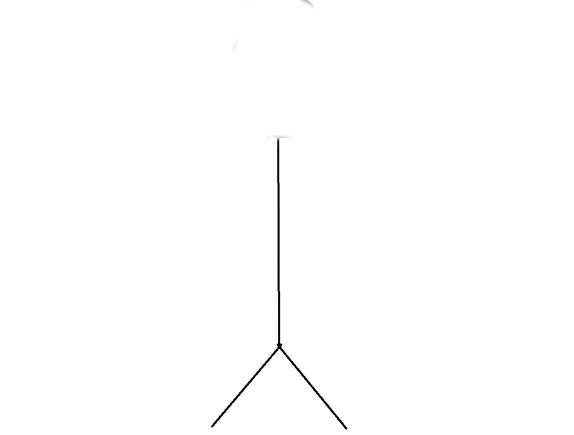
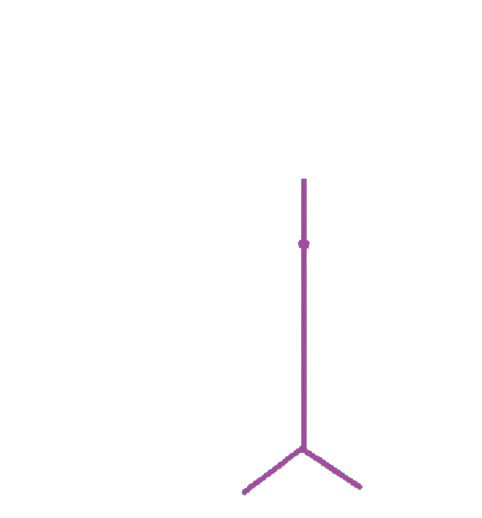
A

diff --git a/HerenciaAbstractLab/src/herenciaabstractlab/JuegoAhorcadoAzar.java b/HerenciaAbstractLab/src/herenciaabstractlab/JuegoAhorcadoAzar.java
@@ -153,72 +153,46 @@ public class JuegoAhorcadoAzar extends JuegoAhorcadoBase {
 
     private class PanelAhorcado extends JPanel {
 
-        private int errores = 0;
-        private final Image[] partes;
+    private int errores = 0;
+    private final JLabel stickmanLabel;
 
-        public PanelAhorcado() {
-            partes = new Image[]{
-                cargarImagen("pie1.png"),
-                cargarImagen("pie2.png"),
-                cargarImagen("brazo1.png"),
-                cargarImagen("brazo2.png"),
-                cargarImagen("torso.png"),
-                cargarImagen("cabeza.png")
-            };
+    public PanelAhorcado() {
+        setLayout(null);
+        setBounds(50, 35, 550, 500);
+        setBorder(BorderFactory.createLineBorder(Color.BLACK, 2));
+
+        stickmanLabel = new JLabel();
+        stickmanLabel.setBounds(0, 0, 550, 500);
+        stickmanLabel.setHorizontalAlignment(SwingConstants.CENTER);
+        add(stickmanLabel);
+    }
+
+    public void setErrores(int errores) {
+        this.errores = errores;
+        actualizarImagen();
+    }
+
+    private void actualizarImagen() {
+        if (errores <= 0) {
+            stickmanLabel.setIcon(null);
+            return;
         }
+        if (errores > 6) errores = 6;
 
-        private Image cargarImagen(String nombre) {
-            int ancho = 80, alto = 80;
-            Image img = null;
-
-            // Intentar desde el classpath
-            URL url = getClass().getResource("/herenciaabstractlab/imagenes/" + nombre);
-            if (url != null) {
-                img = new ImageIcon(url).getImage();
-            } else {
-                // Intentar desde carpeta local
-                File f = new File("imagenes/" + nombre);
-                if (f.exists()) {
-                    img = new ImageIcon(f.getAbsolutePath()).getImage();
-                } else {
-                    System.err.println("No se encontró la imagen: " + nombre);
-                }
-            }
-
-            if (img != null) {
-                return img.getScaledInstance(ancho, alto, Image.SCALE_SMOOTH);
-            }
-            return null;
-        }
-
-        public void setErrores(int errores) {
-            this.errores = errores;
-            repaint();
-        }
-
-        @Override
-        protected void paintComponent(Graphics g) {
-            super.paintComponent(g);
-
-            for (int i = 0; i < errores && i < partes.length; i++) {
-                if (partes[i] != null) {
-                    int offsetX = 0, offsetY = 0;
-
-                    switch (i) {
-                        case 0: offsetX = 150; offsetY = 400; break; // pie1
-                        case 1: offsetX = 250; offsetY = 400; break; // pie2
-                        case 2: offsetX = 100; offsetY = 250; break; // brazo1
-                        case 3: offsetX = 300; offsetY = 250; break; // brazo2
-                        case 4: offsetX = 200; offsetY = 250; break; // torso
-                        case 5: offsetX = 200; offsetY = 150; break; // cabeza
-                    }
-
-                    g.drawImage(partes[i], offsetX, offsetY, null);
-                    repaint();
-                }
-            }
+        // Ruta local de tus imágenes
+        String ruta = "C:\\Users\\user\\Desktop\\Github\\A\\HerenciaAbstract\\HerenciaAbstractLab\\src\\herenciaabstractlab\\imagenes\\thanos\\cuerpo" + errores + ".png";
+        File archivo = new File(ruta);
+        if (archivo.exists()) {
+            ImageIcon icon = new ImageIcon(ruta);
+            Image imgEscalada = icon.getImage().getScaledInstance(200, 200, Image.SCALE_SMOOTH);
+            stickmanLabel.setIcon(new ImageIcon(imgEscalada));
+        } else {
+            System.err.println("No se encontró: " + ruta);
+            stickmanLabel.setIcon(null);
         }
     }
+}
+
 
     public static void main(String[] args) {
         SwingUtilities.invokeLater(() -> new JuegoAhorcadoAzar());
